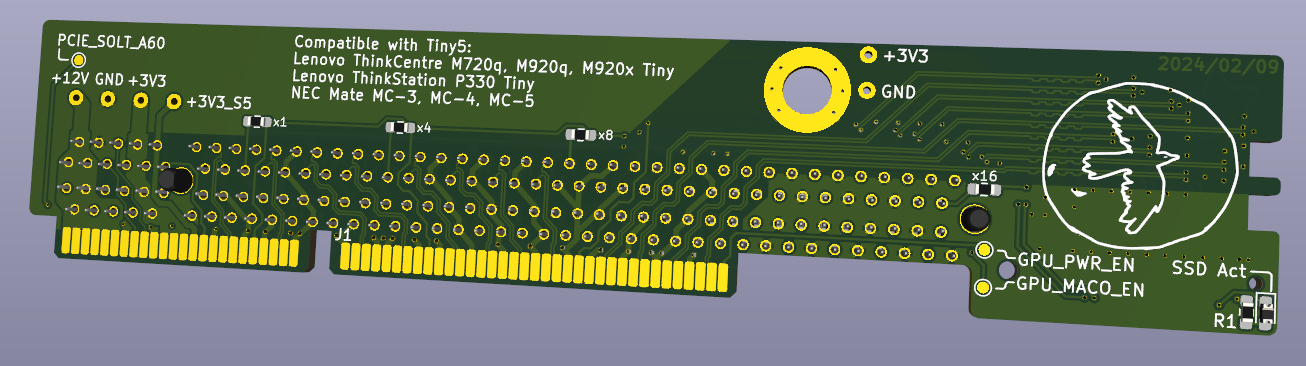
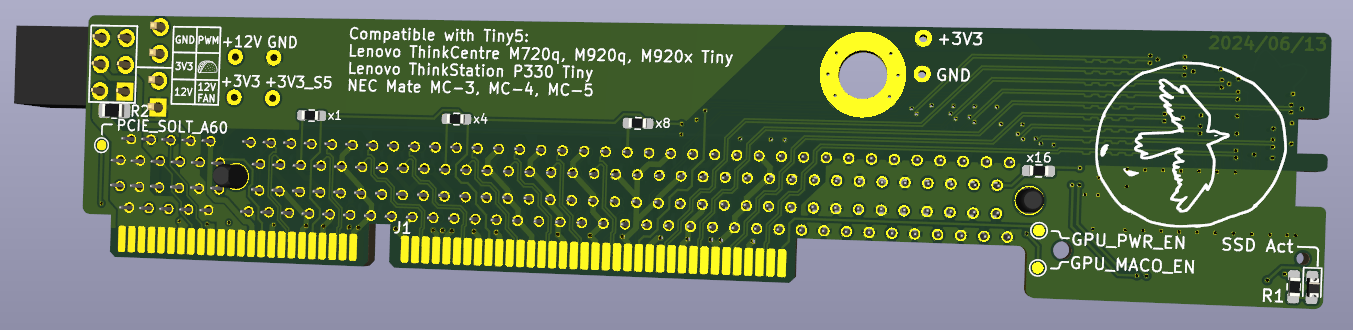
Updated readme

diff --git a/README.md b/README.md
@@ -14,6 +14,13 @@ I've successfully tested v1 of this riser on my own M720q where it works 100% pe
 
 Note that the M.2 slot only supports PCIe NVMe M-key or B+M-key drives, not SATA ones.
 
+The v2 design includes a fan header that can be used in multiple ways:
+
+- 12V no PWM
+- 12V with PWM
+- Voltage controlled speed
+
+The last 2 modes require some kind of fan controller module plugged into the provided header. This has not been designed yet, but the possibility exists.
 
 <img src='Tinyriser-v2-front.png' width=80%/>
 
